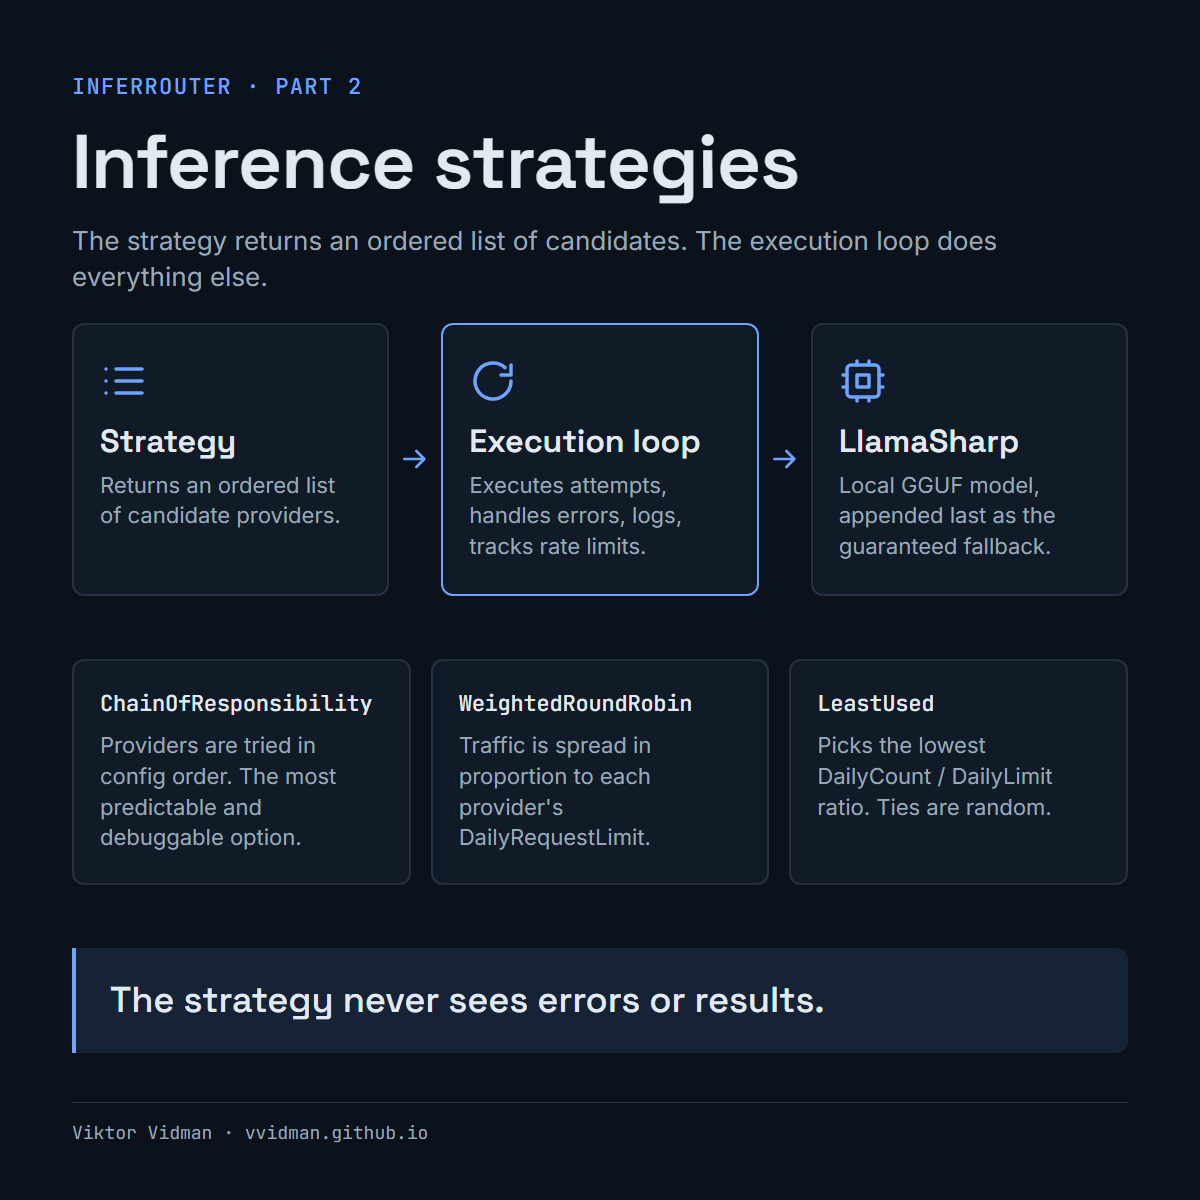
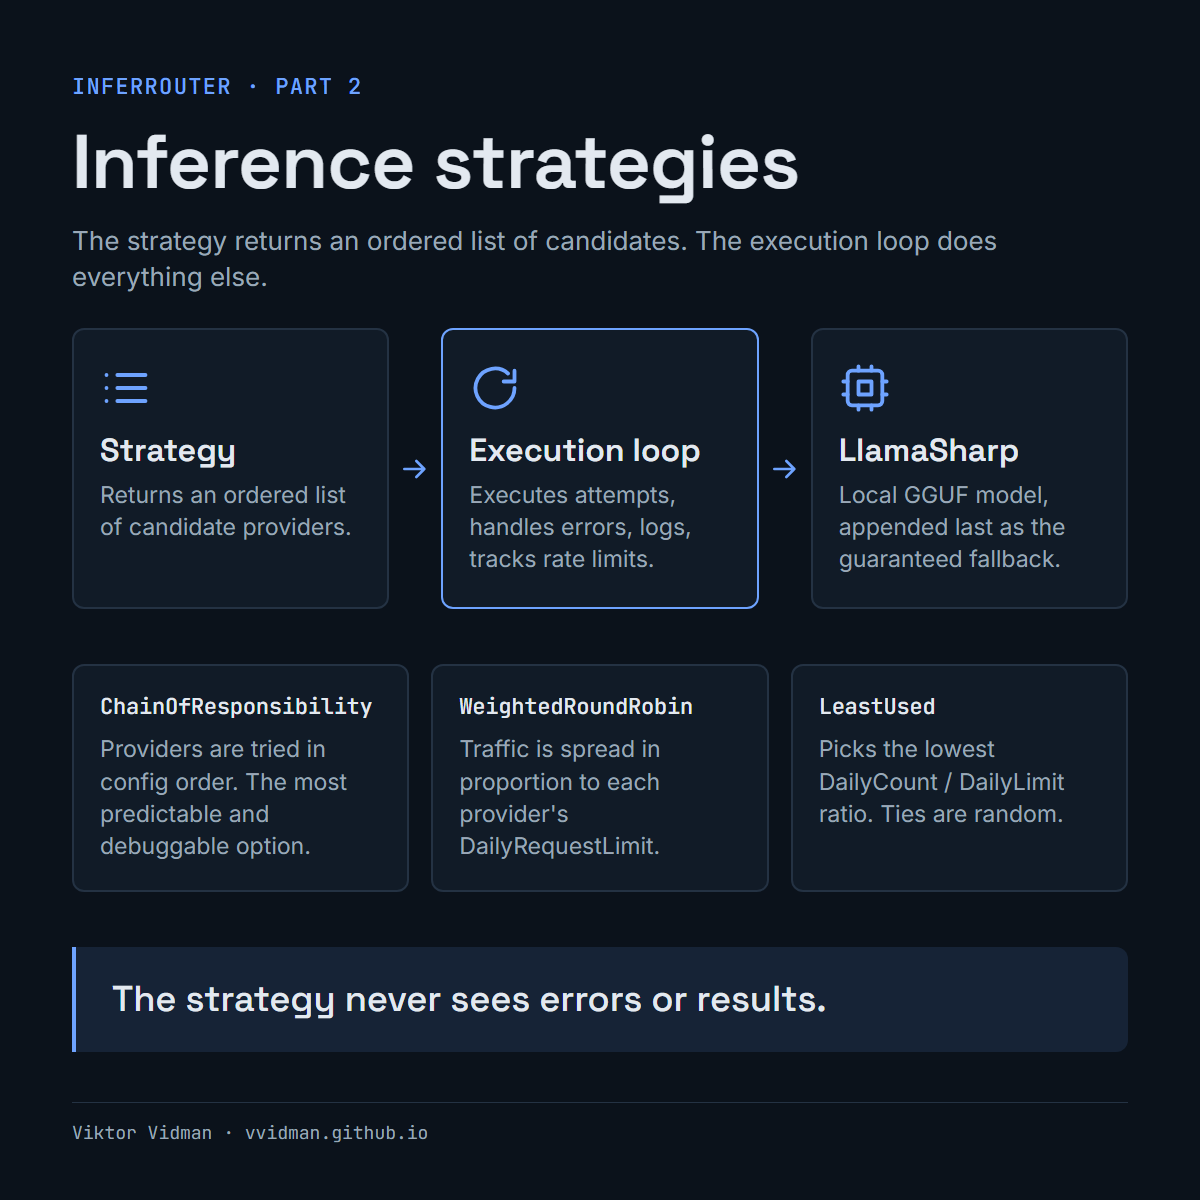
content: rebalance inferrouter-02 square, enlarge chaosforge closing-the-loop og flow

diff --git a/infographics/src/chaosforge-closing-the-loop-og.html b/infographics/src/chaosforge-closing-the-loop-og.html
@@ -5,9 +5,12 @@
 <title>chaosforge-closing-the-loop og</title>
 <link rel="stylesheet" href="../_shared/infographic.css">
 <style>
-.ig-flow .ig-node { padding: 30px 16px; display: flex; flex-direction: column; justify-content: center; }
+.ig-og .ig-body { padding-top: 30px; padding-bottom: 6px; gap: 26px; justify-content: space-between; }
+.ig-flow .ig-node { padding: 22px 18px; display: flex; flex-direction: column; justify-content: center; }
 .ig-flow .ig-node-title { font-size: 25px; }
-.ig-callout { font-size: 28px; padding: 20px 24px; }
+.ig-flow .ig-node-text { font-size: 20px; margin-top: 10px; }
+.ig-flow .ig-arrow { flex-basis: 48px; }
+.ig-callout { font-size: 28px; padding: 18px 26px; }
 </style>
 </head>
 <body>
@@ -16,15 +19,15 @@
   <h1 class="ig-title">Closing the loop</h1>
   <p class="ig-sub">Closing the structural gap between planning and implementation.</p>
 
-  <div class="ig-body" style="gap:20px">
+  <div class="ig-body">
     <div class="ig-flow">
-      <div class="ig-node"><div class="ig-node-title">Reasoning partner</div></div>
+      <div class="ig-node"><div class="ig-node-title">Reasoning partner</div><div class="ig-node-text">Plans and writes the spec.</div></div>
       <div class="ig-arrow"><svg viewBox="0 0 24 24" fill="none" stroke="currentColor" stroke-width="2" stroke-linecap="round" stroke-linejoin="round"><path d="M4 12h15M13 6l6 6-6 6"/></svg></div>
-      <div class="ig-node"><div class="ig-node-title">Implementation agent</div></div>
+      <div class="ig-node"><div class="ig-node-title">Implementation agent</div><div class="ig-node-text">Implements, then runs /review-ready.</div></div>
       <div class="ig-arrow"><svg viewBox="0 0 24 24" fill="none" stroke="currentColor" stroke-width="2" stroke-linecap="round" stroke-linejoin="round"><path d="M4 12h15M13 6l6 6-6 6"/></svg></div>
-      <div class="ig-node is-key"><div class="ig-node-title">Review file</div></div>
+      <div class="ig-node is-key"><div class="ig-node-title">Review file</div><div class="ig-node-text">docs/review/ and docs/progress/ updated.</div></div>
       <div class="ig-arrow"><svg viewBox="0 0 24 24" fill="none" stroke="currentColor" stroke-width="2" stroke-linecap="round" stroke-linejoin="round"><path d="M4 12h15M13 6l6 6-6 6"/></svg></div>
-      <div class="ig-node"><div class="ig-node-title">Reasoning partner</div></div>
+      <div class="ig-node"><div class="ig-node-title">Reasoning partner</div><div class="ig-node-text">Reads the progress index and review file.</div></div>
     </div>
     <div class="ig-callout">The return direction is where the loop breaks.</div>
   </div>

diff --git a/infographics/src/inferrouter-02-square.html b/infographics/src/inferrouter-02-square.html
@@ -5,15 +5,16 @@
 <title>inferrouter-02 square</title>
 <link rel="stylesheet" href="../_shared/infographic.css">
 <style>
-.ig-body { justify-content: space-evenly; padding-top: 0; }
+.ig-body { justify-content: space-between; padding-top: 32px; padding-bottom: 28px; gap: 0; }
 .ig-flow .ig-node { padding: 32px 26px; }
 .ig-flow .ig-node-title { font-size: 32px; }
-.ig-flow .ig-node-text { font-size: 22px; margin-top: 10px; }
-.ig-flow .ig-icon { width: 48px; height: 48px; margin-bottom: 18px; }
-.ig-card { padding: 30px 26px; }
+.ig-flow .ig-node-text { font-size: 23px; margin-top: 10px; }
+.ig-flow .ig-icon { width: 52px; height: 52px; margin-bottom: 18px; }
+.ig-cards { gap: 22px; }
+.ig-card { padding: 28px 26px; }
 .ig-card-title.is-mono { font-size: 22px; }
-.ig-card-body { font-size: 22px; margin-top: 14px; }
-.ig-callout { font-size: 36px; padding: 30px 34px; }
+.ig-card-body { font-size: 23px; margin-top: 14px; }
+.ig-callout { font-size: 36px; padding: 30px 36px; }
 </style>
 </head>
 <body>

diff --git a/infographics/src/chaosforge-closing-the-loop.notes.md b/infographics/src/chaosforge-closing-the-loop.notes.md
@@ -1,5 +1,5 @@
 # chaosforge-closing-the-loop — Closing the Loop
-Source: content/posts/chaosforge-02-closing-the-loop.md (slug `posts/chaosforge-closing-the-loop.html`, series ChaosForge, part 2) · Pattern: flow + 3 cards + callout (square); compact flow + callout (og)
+Source: content/posts/chaosforge-02-closing-the-loop.md (slug `posts/chaosforge-closing-the-loop.html`, series ChaosForge, part 2) · Pattern: flow + 3 cards + callout (square); flow with node captions + callout (og)
 
 | Element | Text | Source |
 |---|---|---|
@@ -11,6 +11,7 @@ Source: content/posts/chaosforge-02-closing-the-loop.md (slug `posts/chaosforge-
 | Node 2 | **Implementation agent** — Implements, then runs /review-ready. | "The AI used to turn plans into code"; diagram "implement └─► /review-ready" |
 | Node 3 (key) | **Review file + progress** — docs/review/ and docs/progress/ updated. | diagram "docs/review/feature-name-review.md" and "docs/progress/ updated" |
 | Node 4 | **Reasoning partner, new session** — Reads the progress index and review file. | diagram: "reads docs/progress/index.md first", "reads review file as context" |
+| Node captions (og) | Plans and writes the spec. / Implements, then runs /review-ready. / docs/review/ and docs/progress/ updated. / Reads the progress index and review file. | same as Node 1–4 texts above (spec step, `/review-ready`, review + progress files, "reads docs/progress/index.md first", "reads review file as context") |
 | Card The review file | The only file dropped into the reasoning partner's context for a review session. | Addition 1: "This is the *only* thing dropped into the reasoning partner's context for a review session." |
 | Card docs/progress/ | Ground truth of what's been built. | Addition 2 heading: "`docs/progress/` — ground truth of what's been built" |
 | Card Proposed doc updates | Every review file lists which living documents need updating. The human decides what gets incorporated. | Addition 3: "Every review file includes an explicit section listing which living documents need updating… The human decides what gets incorporated." |
